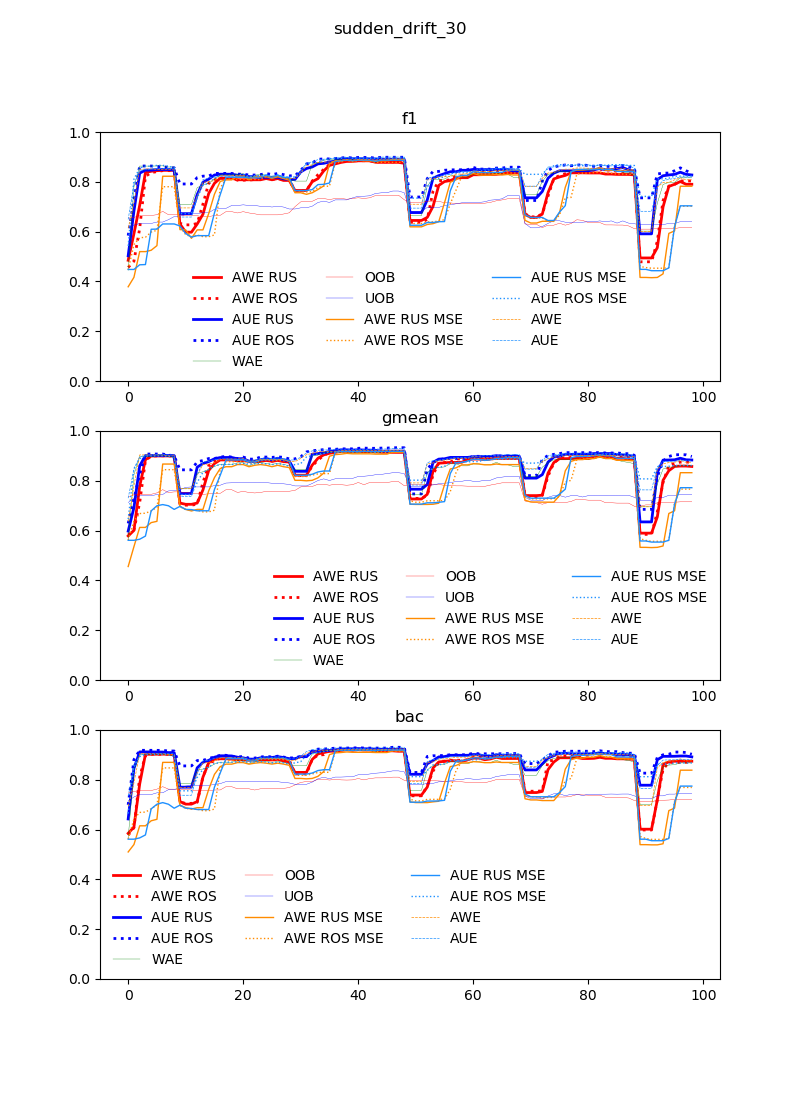
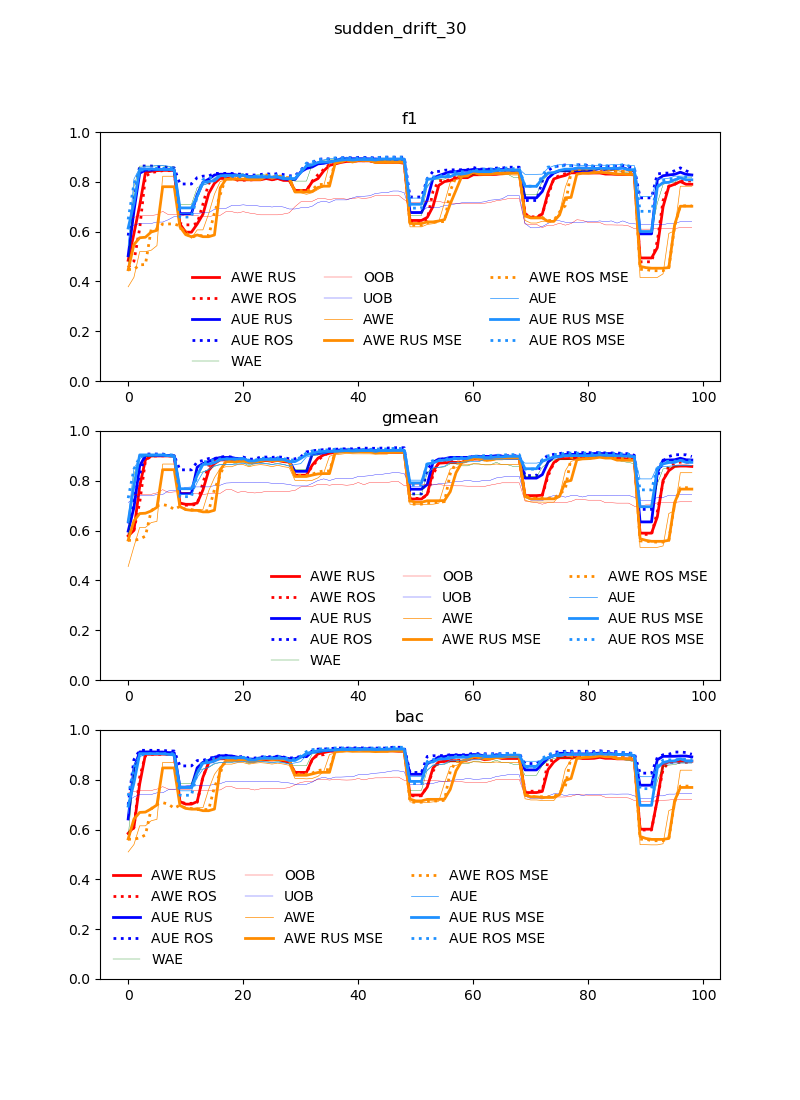
Added correctly labeled plots

diff --git a/script.py b/script.py
@@ -21,18 +21,18 @@ for fname in fnames:
     new_results = np.mean(new_results, axis=0)
     kernel = 5
     metrics = ["f1", "gmean", "bac"]
-    colors = ["red", "red", "blue", "blue", "green", "red", "blue", 'darkorange', 'darkorange', 'dodgerblue',
-              'dodgerblue', 'darkorange', 'dodgerblue' ]
-    ls = ["-", ":", "-", ":", "-", "-", "-", "-", ":", "-", ":", "--", "--"]
-    labels = ["AWE RUS", "AWE ROS", "AUE RUS", "AUE ROS", "WAE", "OOB", "UOB", "AWE RUS MSE", "AWE ROS MSE",
-              "AUE RUS MSE", "AUE ROS MSE", "AWE", "AUE"]
+    colors = ["red", "red", "blue", "blue", "green", "red", "blue", 'darkorange', 'darkorange','darkorange', 'dodgerblue',
+              'dodgerblue',  'dodgerblue' ]
+    ls = ["-", ":", "-", ":", "-", "-", "-",   "-", "-", ":", "-", "-",":"]
+    labels = ["AWE RUS", "AWE ROS", "AUE RUS", "AUE ROS", "WAE", "OOB", "UOB", "AWE","AWE RUS MSE", "AWE ROS MSE",
+              "AUE", "AUE RUS MSE", "AUE ROS MSE"]
 
     usages = [
         [0, 3, 6, 9, 12, 13, 14, 15, 16, 17, 18, 19, 20],
         [1, 4, 7, 10, 12, 13, 14, 15, 16, 17, 18, 19, 20],
         [2, 5, 8, 11, 12, 13, 14, 15, 16, 17, 18, 19, 20],
     ]
-    lw = [2, 2, 2, 2, 0.25, 0.25, 0.25, 1, 1, 1, 1, 0.5, 0.5]
+    lw = [2, 2, 2, 2, 0.25, 0.25, 0.25, 0.5, 2, 2, 0.5, 2, 2]
     locs = [1, 3, 3]
 
     print(new_results.shape)
